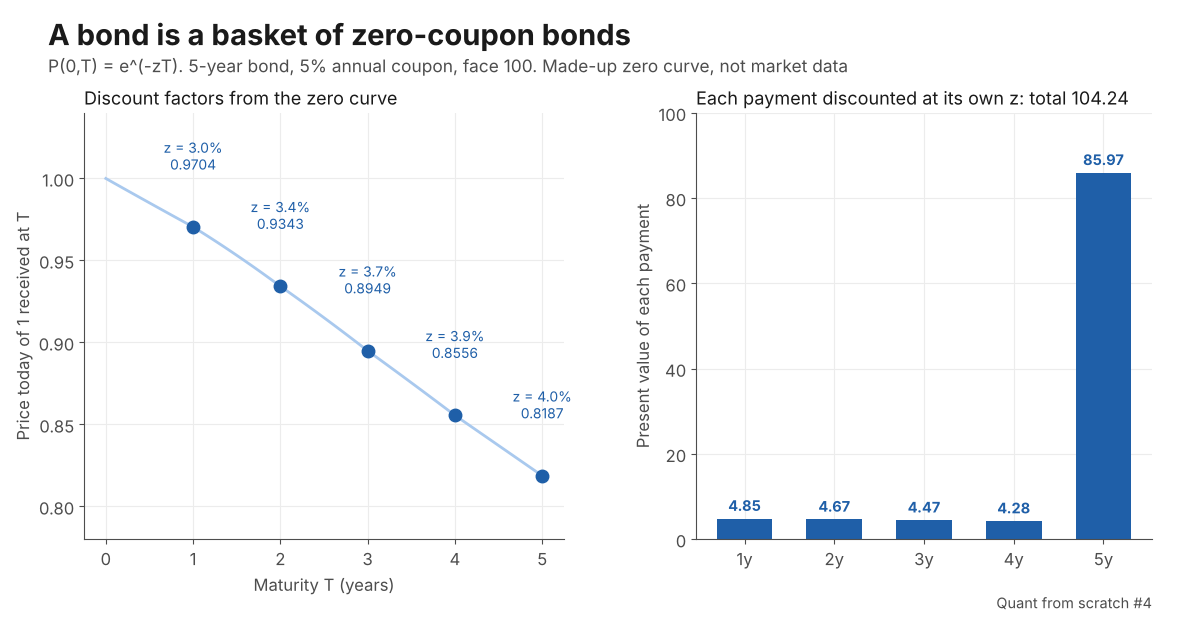
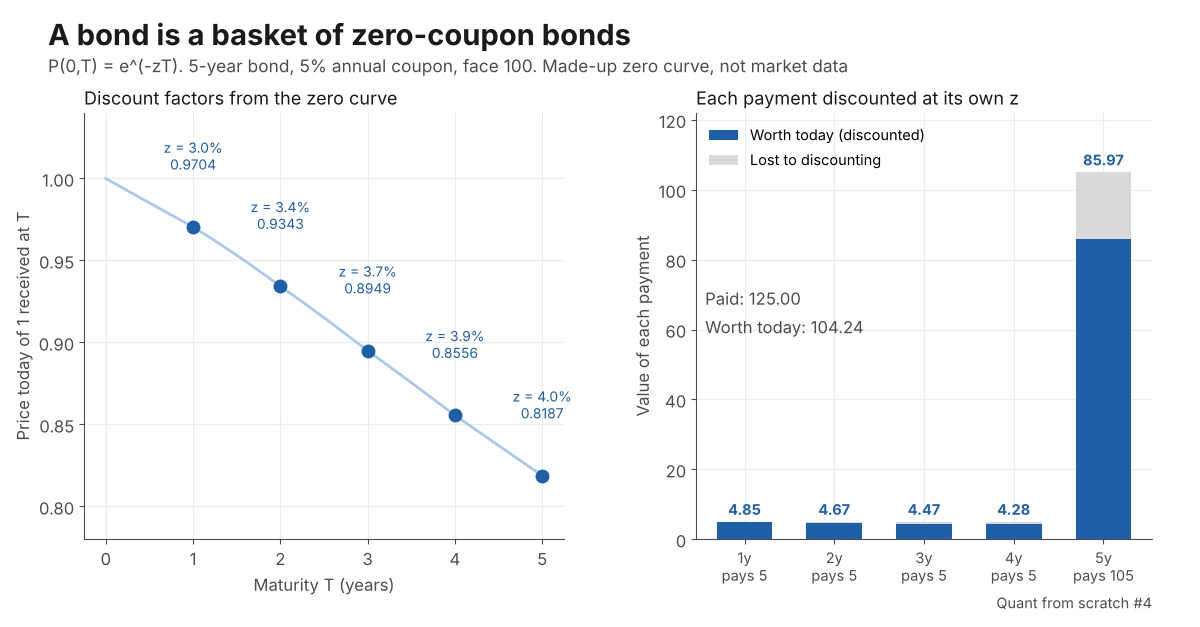
Day 4 chart: show paid vs discounted value

diff --git a/plots.py b/plots.py
@@ -203,12 +203,19 @@ def day4_bonds():
     ax2 = fig.add_axes([0.58, 0.14, 0.38, 0.68])
     cfs = bond_cash_flows(0.05, 100.0, maturities)
     pvs = np.array([cf * discount_factor(CURVE[m], m) for m, cf in zip(maturities, cfs)])
-    bars = ax2.bar([f"{m}y" for m in maturities], pvs, color=BLUE, width=0.62)
-    for b, v in zip(bars, pvs):
-        ax2.text(b.get_x() + b.get_width() / 2, v + 1.8, f"{v:.2f}", ha="center", fontsize=10.5, color=BLUE, fontweight="bold")
-    ax2.set_ylim(0, 100)
-    ax2.set_ylabel("Present value of each payment")
-    panel_title(ax2, f"Each payment discounted at its own z: total {pvs.sum():.2f}")
+    x = np.arange(len(maturities))
+    bars = ax2.bar(x, pvs, color=BLUE, width=0.62, label="Worth today (discounted)")
+    ax2.bar(x, cfs - pvs, bottom=pvs, color=LGRAY, width=0.62, label="Lost to discounting")
+    for xi, cf, v in zip(x, cfs, pvs):
+        ax2.text(xi, cf + 2, f"{v:.2f}", ha="center", fontsize=10.5, color=BLUE, fontweight="bold")
+    ax2.set_xticks(x)
+    ax2.set_xticklabels([f"{m}y\npays {cf:.0f}" for m, cf in zip(maturities, cfs)], fontsize=10.5)
+    ax2.set_ylim(0, 122)
+    ax2.set_ylabel("Value of each payment")
+    ax2.legend(frameon=False, loc="upper left", fontsize=10.5)
+    ax2.text(0.02, 0.60, f"Paid: {cfs.sum():.2f}\nWorth today: {pvs.sum():.2f}", transform=ax2.transAxes,
+             fontsize=12, color=GRAY, va="top", linespacing=1.5)
+    panel_title(ax2, "Each payment discounted at its own z")
     return save(fig, "day4_bond_as_zero_coupon_bonds.png")
 
 
